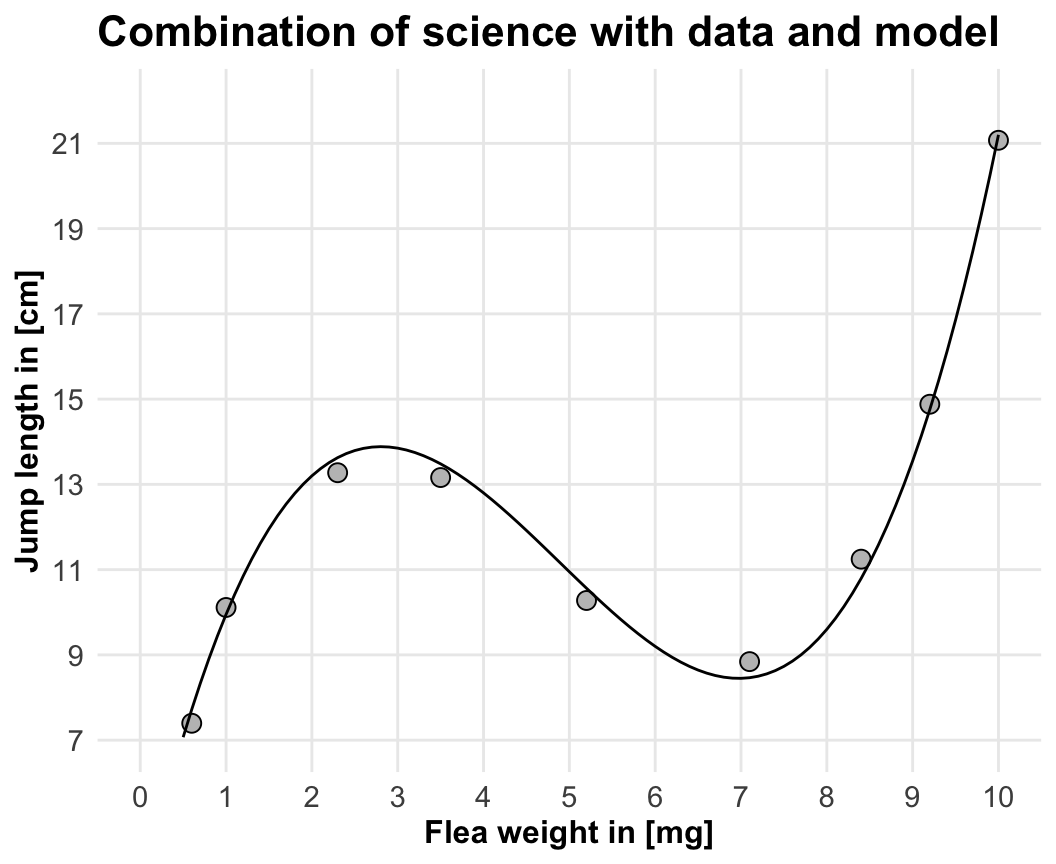
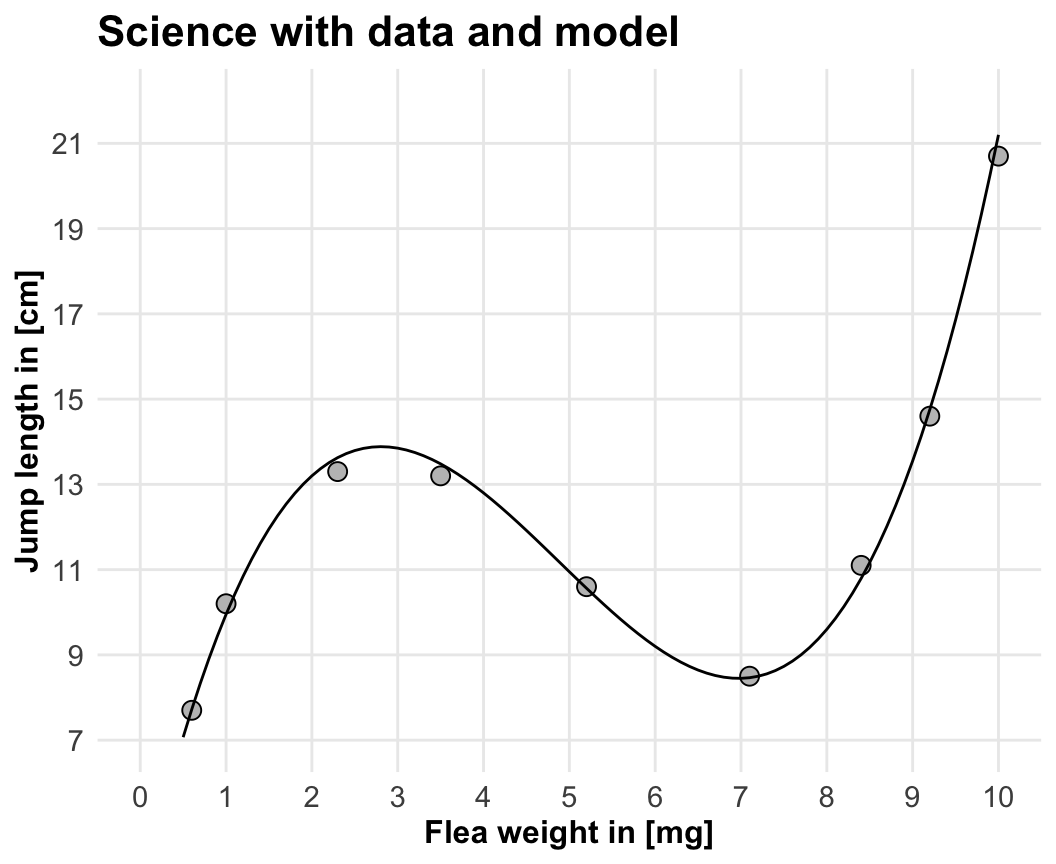
added

diff --git a/docs/chapter-02-what-is-data.html b/docs/chapter-02-what-is-data.html
@@ -301,7 +301,7 @@ window.Quarto = {
 </header>
 
 
-<p><em>Last modified on 27. October 2025 at 19:49:11</em></p>
+<p><em>Last modified on 27. October 2025 at 20:05:22</em></p>
 <blockquote class="blockquote">
 <p><em>“The limits of my language mean the limits of my world.” — Ludwig Wittgenstein</em></p>
 </blockquote>
@@ -397,7 +397,8 @@ Table&nbsp;2.1: Summary table of terminology used in my statistical modelling. T
 <summary>R Code [show / hide]</summary>
 <div class="code-copy-outer-scaffold"><div class="sourceCode cell-code" id="cb1"><pre class="sourceCode r code-with-copy"><code class="sourceCode r"><span id="cb1-1"><a href="#cb1-1" aria-hidden="true" tabindex="-1"></a>jump_weight_tbl <span class="ot">&lt;-</span> <span class="fu">tibble</span>(<span class="at">x =</span> <span class="fu">c</span>(<span class="fl">0.6</span>, <span class="dv">1</span>, <span class="fl">2.3</span>, <span class="fl">3.5</span>, <span class="fl">5.2</span>, <span class="fl">7.1</span>, <span class="fl">8.4</span>, <span class="fl">9.2</span>, <span class="dv">10</span>),</span>
 <span id="cb1-2"><a href="#cb1-2" aria-hidden="true" tabindex="-1"></a>                          <span class="at">y =</span> <span class="fl">0.15</span><span class="sc">*</span>x<span class="sc">^</span><span class="dv">3</span> <span class="sc">-</span> <span class="fl">2.2</span><span class="sc">*</span>x<span class="sc">^</span><span class="dv">2</span> <span class="sc">+</span> <span class="fl">8.8</span><span class="sc">*</span>x <span class="sc">+</span> <span class="fl">3.2</span> <span class="sc">+</span> <span class="fu">rnorm</span>(<span class="dv">9</span>, <span class="dv">0</span>, <span class="fl">0.5</span>)) <span class="sc">|&gt;</span></span>
-<span id="cb1-3"><a href="#cb1-3" aria-hidden="true" tabindex="-1"></a>  <span class="fu">rename</span>(<span class="at">weight_mg =</span> x, <span class="at">jump_length_cm =</span> y)</span></code></pre></div><button title="Copy to Clipboard" class="code-copy-button"><i class="bi"></i></button></div>
+<span id="cb1-3"><a href="#cb1-3" aria-hidden="true" tabindex="-1"></a>  <span class="fu">mutate_all</span>(round, <span class="dv">1</span>) <span class="sc">|&gt;</span> </span>
+<span id="cb1-4"><a href="#cb1-4" aria-hidden="true" tabindex="-1"></a>  <span class="fu">rename</span>(<span class="at">weight_mg =</span> x, <span class="at">jump_length_cm =</span> y)</span></code></pre></div><button title="Copy to Clipboard" class="code-copy-button"><i class="bi"></i></button></div>
 </details>
 </div>
 <div class="cell">
@@ -418,39 +419,39 @@ Table&nbsp;2.2: foo.
 <tbody>
 <tr class="odd">
 <td style="text-align: center;">0.6</td>
-<td style="text-align: center;">7.396246</td>
+<td style="text-align: center;">7.7</td>
 </tr>
 <tr class="even">
 <td style="text-align: center;">1.0</td>
-<td style="text-align: center;">10.112345</td>
+<td style="text-align: center;">10.2</td>
 </tr>
 <tr class="odd">
 <td style="text-align: center;">2.3</td>
-<td style="text-align: center;">13.273475</td>
+<td style="text-align: center;">13.3</td>
 </tr>
 <tr class="even">
 <td style="text-align: center;">3.5</td>
-<td style="text-align: center;">13.160227</td>
+<td style="text-align: center;">13.2</td>
 </tr>
 <tr class="odd">
 <td style="text-align: center;">5.2</td>
-<td style="text-align: center;">10.276160</td>
+<td style="text-align: center;">10.6</td>
 </tr>
 <tr class="even">
 <td style="text-align: center;">7.1</td>
-<td style="text-align: center;">8.842102</td>
+<td style="text-align: center;">8.5</td>
 </tr>
 <tr class="odd">
 <td style="text-align: center;">8.4</td>
-<td style="text-align: center;">11.245328</td>
+<td style="text-align: center;">11.1</td>
 </tr>
 <tr class="even">
 <td style="text-align: center;">9.2</td>
-<td style="text-align: center;">14.879852</td>
+<td style="text-align: center;">14.6</td>
 </tr>
 <tr class="odd">
 <td style="text-align: center;">10.0</td>
-<td style="text-align: center;">21.071588</td>
+<td style="text-align: center;">20.7</td>
 </tr>
 </tbody>
 </table>
@@ -461,7 +462,7 @@ Table&nbsp;2.2: foo.
 </div>
 <p><a href="#eq-jump-weight" class="quarto-xref">Equation&nbsp;<span>2.1</span></a></p>
 <p><span id="eq-jump-weight"><span class="math display">\[
-f(x) = 0.15\cdot x^3 - 2.2\cdot x^2 + 8.8 \cdot x + 3.2
+y = 0.15\cdot x^3 - 2.2\cdot x^2 + 8.8 \cdot x + 3.2
 \tag{2.1}\]</span></span></p>
 <div class="cell" data-layout-align="center">
 <div class="cell-output-display">
@@ -1071,109 +1072,110 @@ Figure&nbsp;2.2: foo. <em>[Zum Vergrößern anklicken]</em>
 <span id="cb2-46"><a href="#cb2-46" aria-hidden="true" tabindex="-1"></a><span class="in">```{r}</span></span>
 <span id="cb2-47"><a href="#cb2-47" aria-hidden="true" tabindex="-1"></a>jump_weight_tbl <span class="ot">&lt;-</span> <span class="fu">tibble</span>(<span class="at">x =</span> <span class="fu">c</span>(<span class="fl">0.6</span>, <span class="dv">1</span>, <span class="fl">2.3</span>, <span class="fl">3.5</span>, <span class="fl">5.2</span>, <span class="fl">7.1</span>, <span class="fl">8.4</span>, <span class="fl">9.2</span>, <span class="dv">10</span>),</span>
 <span id="cb2-48"><a href="#cb2-48" aria-hidden="true" tabindex="-1"></a>                          <span class="at">y =</span> <span class="fl">0.15</span><span class="sc">*</span>x<span class="sc">^</span><span class="dv">3</span> <span class="sc">-</span> <span class="fl">2.2</span><span class="sc">*</span>x<span class="sc">^</span><span class="dv">2</span> <span class="sc">+</span> <span class="fl">8.8</span><span class="sc">*</span>x <span class="sc">+</span> <span class="fl">3.2</span> <span class="sc">+</span> <span class="fu">rnorm</span>(<span class="dv">9</span>, <span class="dv">0</span>, <span class="fl">0.5</span>)) <span class="sc">|&gt;</span></span>
-<span id="cb2-49"><a href="#cb2-49" aria-hidden="true" tabindex="-1"></a>  <span class="fu">rename</span>(<span class="at">weight_mg =</span> x, <span class="at">jump_length_cm =</span> y)</span>
-<span id="cb2-50"><a href="#cb2-50" aria-hidden="true" tabindex="-1"></a><span class="in">```</span></span>
-<span id="cb2-51"><a href="#cb2-51" aria-hidden="true" tabindex="-1"></a></span>
-<span id="cb2-54"><a href="#cb2-54" aria-hidden="true" tabindex="-1"></a><span class="in">```{r}</span></span>
-<span id="cb2-55"><a href="#cb2-55" aria-hidden="true" tabindex="-1"></a><span class="co">#| echo: false</span></span>
-<span id="cb2-56"><a href="#cb2-56" aria-hidden="true" tabindex="-1"></a><span class="co">#| message: false</span></span>
-<span id="cb2-57"><a href="#cb2-57" aria-hidden="true" tabindex="-1"></a><span class="co">#| warning: false</span></span>
-<span id="cb2-58"><a href="#cb2-58" aria-hidden="true" tabindex="-1"></a><span class="co">#| label: tbl-02-jump-weight</span></span>
-<span id="cb2-59"><a href="#cb2-59" aria-hidden="true" tabindex="-1"></a><span class="co">#| tbl-cap: "foo."</span></span>
-<span id="cb2-60"><a href="#cb2-60" aria-hidden="true" tabindex="-1"></a></span>
-<span id="cb2-61"><a href="#cb2-61" aria-hidden="true" tabindex="-1"></a>jump_weight_tbl<span class="sc">|&gt;</span> </span>
-<span id="cb2-62"><a href="#cb2-62" aria-hidden="true" tabindex="-1"></a>  <span class="fu">kable</span>(<span class="at">align =</span> <span class="st">"c"</span>, <span class="st">"pipe"</span>)</span>
-<span id="cb2-63"><a href="#cb2-63" aria-hidden="true" tabindex="-1"></a><span class="in">```</span></span>
-<span id="cb2-64"><a href="#cb2-64" aria-hidden="true" tabindex="-1"></a></span>
+<span id="cb2-49"><a href="#cb2-49" aria-hidden="true" tabindex="-1"></a>  <span class="fu">mutate_all</span>(round, <span class="dv">1</span>) <span class="sc">|&gt;</span> </span>
+<span id="cb2-50"><a href="#cb2-50" aria-hidden="true" tabindex="-1"></a>  <span class="fu">rename</span>(<span class="at">weight_mg =</span> x, <span class="at">jump_length_cm =</span> y)</span>
+<span id="cb2-51"><a href="#cb2-51" aria-hidden="true" tabindex="-1"></a><span class="in">```</span></span>
+<span id="cb2-52"><a href="#cb2-52" aria-hidden="true" tabindex="-1"></a></span>
+<span id="cb2-55"><a href="#cb2-55" aria-hidden="true" tabindex="-1"></a><span class="in">```{r}</span></span>
+<span id="cb2-56"><a href="#cb2-56" aria-hidden="true" tabindex="-1"></a><span class="co">#| echo: false</span></span>
+<span id="cb2-57"><a href="#cb2-57" aria-hidden="true" tabindex="-1"></a><span class="co">#| message: false</span></span>
+<span id="cb2-58"><a href="#cb2-58" aria-hidden="true" tabindex="-1"></a><span class="co">#| warning: false</span></span>
+<span id="cb2-59"><a href="#cb2-59" aria-hidden="true" tabindex="-1"></a><span class="co">#| label: tbl-02-jump-weight</span></span>
+<span id="cb2-60"><a href="#cb2-60" aria-hidden="true" tabindex="-1"></a><span class="co">#| tbl-cap: "foo."</span></span>
+<span id="cb2-61"><a href="#cb2-61" aria-hidden="true" tabindex="-1"></a></span>
+<span id="cb2-62"><a href="#cb2-62" aria-hidden="true" tabindex="-1"></a>jump_weight_tbl<span class="sc">|&gt;</span> </span>
+<span id="cb2-63"><a href="#cb2-63" aria-hidden="true" tabindex="-1"></a>  <span class="fu">kable</span>(<span class="at">align =</span> <span class="st">"c"</span>, <span class="st">"pipe"</span>)</span>
+<span id="cb2-64"><a href="#cb2-64" aria-hidden="true" tabindex="-1"></a><span class="in">```</span></span>
 <span id="cb2-65"><a href="#cb2-65" aria-hidden="true" tabindex="-1"></a></span>
 <span id="cb2-66"><a href="#cb2-66" aria-hidden="true" tabindex="-1"></a></span>
-<span id="cb2-67"><a href="#cb2-67" aria-hidden="true" tabindex="-1"></a>@eq-jump-weight</span>
-<span id="cb2-68"><a href="#cb2-68" aria-hidden="true" tabindex="-1"></a></span>
-<span id="cb2-69"><a href="#cb2-69" aria-hidden="true" tabindex="-1"></a>$$</span>
-<span id="cb2-70"><a href="#cb2-70" aria-hidden="true" tabindex="-1"></a>f(x) = 0.15\cdot x^3 - 2.2\cdot x^2 + 8.8 \cdot x + 3.2</span>
-<span id="cb2-71"><a href="#cb2-71" aria-hidden="true" tabindex="-1"></a>$$ {#eq-jump-weight}</span>
-<span id="cb2-72"><a href="#cb2-72" aria-hidden="true" tabindex="-1"></a></span>
-<span id="cb2-75"><a href="#cb2-75" aria-hidden="true" tabindex="-1"></a><span class="in">```{r}</span></span>
-<span id="cb2-76"><a href="#cb2-76" aria-hidden="true" tabindex="-1"></a><span class="co">#| message: false</span></span>
-<span id="cb2-77"><a href="#cb2-77" aria-hidden="true" tabindex="-1"></a><span class="co">#| echo: false</span></span>
-<span id="cb2-78"><a href="#cb2-78" aria-hidden="true" tabindex="-1"></a><span class="co">#| warning: false</span></span>
-<span id="cb2-79"><a href="#cb2-79" aria-hidden="true" tabindex="-1"></a><span class="co">#| fig-align: center</span></span>
-<span id="cb2-80"><a href="#cb2-80" aria-hidden="true" tabindex="-1"></a><span class="co">#| fig-height: 4</span></span>
-<span id="cb2-81"><a href="#cb2-81" aria-hidden="true" tabindex="-1"></a><span class="co">#| fig-width: 10</span></span>
-<span id="cb2-82"><a href="#cb2-82" aria-hidden="true" tabindex="-1"></a><span class="co">#| fig-cap: "foo. *[Zum Vergrößern anklicken]*"</span></span>
-<span id="cb2-83"><a href="#cb2-83" aria-hidden="true" tabindex="-1"></a><span class="co">#| label: fig-02-science-to-model</span></span>
-<span id="cb2-84"><a href="#cb2-84" aria-hidden="true" tabindex="-1"></a></span>
-<span id="cb2-85"><a href="#cb2-85" aria-hidden="true" tabindex="-1"></a>p1 <span class="ot">&lt;-</span> <span class="fu">ggplot</span>(jump_weight_tbl, <span class="fu">aes</span>(<span class="at">x =</span> weight_mg, <span class="at">y =</span> jump_length_cm)) <span class="sc">+</span></span>
-<span id="cb2-86"><a href="#cb2-86" aria-hidden="true" tabindex="-1"></a>  <span class="fu">theme_book</span>() <span class="sc">+</span></span>
-<span id="cb2-87"><a href="#cb2-87" aria-hidden="true" tabindex="-1"></a>  <span class="fu">scale_x_continuous</span>(<span class="at">breaks =</span> <span class="dv">0</span><span class="sc">:</span><span class="dv">10</span>, <span class="at">limits =</span> <span class="fu">c</span>(<span class="dv">0</span>, <span class="dv">10</span>)) <span class="sc">+</span></span>
-<span id="cb2-88"><a href="#cb2-88" aria-hidden="true" tabindex="-1"></a>  <span class="fu">scale_y_continuous</span>(<span class="at">breaks =</span> <span class="fu">seq</span>(<span class="dv">7</span>, <span class="dv">21</span>, <span class="dv">2</span>), <span class="at">limits =</span> <span class="fu">c</span>(<span class="dv">7</span>, <span class="dv">22</span>)) <span class="sc">+</span></span>
-<span id="cb2-89"><a href="#cb2-89" aria-hidden="true" tabindex="-1"></a>  <span class="fu">labs</span>(<span class="at">x =</span> <span class="st">"Flea weight in [mg]"</span>, <span class="at">y =</span> <span class="st">"Jump length in [cm]"</span>,</span>
-<span id="cb2-90"><a href="#cb2-90" aria-hidden="true" tabindex="-1"></a>       <span class="at">title =</span> <span class="st">"Science"</span>) <span class="sc">+</span></span>
-<span id="cb2-91"><a href="#cb2-91" aria-hidden="true" tabindex="-1"></a>  <span class="fu">theme</span>(<span class="at">axis.text =</span> <span class="fu">element_blank</span>())</span>
-<span id="cb2-92"><a href="#cb2-92" aria-hidden="true" tabindex="-1"></a></span>
-<span id="cb2-93"><a href="#cb2-93" aria-hidden="true" tabindex="-1"></a>p2 <span class="ot">&lt;-</span> <span class="fu">ggplot</span>(jump_weight_tbl, <span class="fu">aes</span>(<span class="at">x =</span> weight_mg, <span class="at">y =</span> jump_length_cm)) <span class="sc">+</span></span>
-<span id="cb2-94"><a href="#cb2-94" aria-hidden="true" tabindex="-1"></a>  <span class="fu">theme_book</span>() <span class="sc">+</span></span>
-<span id="cb2-95"><a href="#cb2-95" aria-hidden="true" tabindex="-1"></a>  <span class="fu">geom_point</span>() <span class="sc">+</span></span>
-<span id="cb2-96"><a href="#cb2-96" aria-hidden="true" tabindex="-1"></a>  <span class="fu">scale_x_continuous</span>(<span class="at">breaks =</span> <span class="dv">0</span><span class="sc">:</span><span class="dv">10</span>, <span class="at">limits =</span> <span class="fu">c</span>(<span class="dv">0</span>, <span class="dv">10</span>)) <span class="sc">+</span></span>
-<span id="cb2-97"><a href="#cb2-97" aria-hidden="true" tabindex="-1"></a>  <span class="fu">scale_y_continuous</span>(<span class="at">breaks =</span> <span class="fu">seq</span>(<span class="dv">7</span>, <span class="dv">21</span>, <span class="dv">2</span>), <span class="at">limits =</span> <span class="fu">c</span>(<span class="dv">7</span>, <span class="dv">22</span>)) <span class="sc">+</span></span>
-<span id="cb2-98"><a href="#cb2-98" aria-hidden="true" tabindex="-1"></a>  <span class="fu">labs</span>(<span class="at">x =</span> <span class="st">"weight_mg"</span>, <span class="at">y =</span> <span class="st">"jump_length_cm"</span>,</span>
-<span id="cb2-99"><a href="#cb2-99" aria-hidden="true" tabindex="-1"></a>       <span class="at">title =</span> <span class="st">"Data"</span>)</span>
-<span id="cb2-100"><a href="#cb2-100" aria-hidden="true" tabindex="-1"></a></span>
-<span id="cb2-101"><a href="#cb2-101" aria-hidden="true" tabindex="-1"></a>p3 <span class="ot">&lt;-</span> <span class="fu">ggplot</span>(jump_weight_tbl, <span class="fu">aes</span>(<span class="at">x =</span> weight_mg, <span class="at">y =</span> jump_length_cm)) <span class="sc">+</span></span>
-<span id="cb2-102"><a href="#cb2-102" aria-hidden="true" tabindex="-1"></a>  <span class="fu">theme_book</span>() <span class="sc">+</span></span>
-<span id="cb2-103"><a href="#cb2-103" aria-hidden="true" tabindex="-1"></a>  <span class="fu">geom_function</span>(<span class="at">fun =</span> \(x) <span class="fl">0.15</span><span class="sc">*</span>x<span class="sc">^</span><span class="dv">3</span> <span class="sc">-</span> <span class="fl">2.2</span><span class="sc">*</span>x<span class="sc">^</span><span class="dv">2</span> <span class="sc">+</span> <span class="fl">8.8</span><span class="sc">*</span>x <span class="sc">+</span> <span class="fl">3.2</span>,</span>
-<span id="cb2-104"><a href="#cb2-104" aria-hidden="true" tabindex="-1"></a>                <span class="at">size =</span> <span class="dv">1</span>) <span class="sc">+</span></span>
-<span id="cb2-105"><a href="#cb2-105" aria-hidden="true" tabindex="-1"></a>  <span class="fu">scale_x_continuous</span>(<span class="at">breaks =</span> <span class="dv">0</span><span class="sc">:</span><span class="dv">10</span>, <span class="at">limits =</span> <span class="fu">c</span>(<span class="dv">0</span>, <span class="dv">10</span>)) <span class="sc">+</span></span>
-<span id="cb2-106"><a href="#cb2-106" aria-hidden="true" tabindex="-1"></a>  <span class="fu">scale_y_continuous</span>(<span class="at">breaks =</span> <span class="fu">seq</span>(<span class="dv">7</span>, <span class="dv">21</span>, <span class="dv">2</span>), <span class="at">limits =</span> <span class="fu">c</span>(<span class="dv">7</span>, <span class="dv">22</span>)) <span class="sc">+</span></span>
-<span id="cb2-107"><a href="#cb2-107" aria-hidden="true" tabindex="-1"></a>  <span class="fu">labs</span>(<span class="at">x =</span> <span class="st">"Influencer (X)"</span>, <span class="at">y =</span> <span class="st">"Outcome (Y)"</span>,</span>
-<span id="cb2-108"><a href="#cb2-108" aria-hidden="true" tabindex="-1"></a>       <span class="at">title =</span> <span class="st">"Model"</span>) <span class="sc">+</span></span>
-<span id="cb2-109"><a href="#cb2-109" aria-hidden="true" tabindex="-1"></a>  <span class="fu">theme</span>(<span class="at">axis.text =</span> <span class="fu">element_blank</span>())</span>
-<span id="cb2-110"><a href="#cb2-110" aria-hidden="true" tabindex="-1"></a></span>
-<span id="cb2-111"><a href="#cb2-111" aria-hidden="true" tabindex="-1"></a>p1 <span class="sc">+</span> p2 <span class="sc">+</span> p3 <span class="sc">+</span></span>
-<span id="cb2-112"><a href="#cb2-112" aria-hidden="true" tabindex="-1"></a>  <span class="fu">plot_layout</span>(<span class="at">ncol =</span> <span class="dv">3</span>) <span class="sc">+</span></span>
-<span id="cb2-113"><a href="#cb2-113" aria-hidden="true" tabindex="-1"></a>  <span class="fu">plot_annotation</span>(<span class="at">tag_levels =</span> <span class="st">'A'</span>, <span class="at">tag_prefix =</span> <span class="st">'('</span>, <span class="at">tag_suffix =</span> <span class="st">')'</span>) <span class="sc">&amp;</span></span>
-<span id="cb2-114"><a href="#cb2-114" aria-hidden="true" tabindex="-1"></a>  <span class="fu">theme</span>(<span class="at">plot.tag =</span> <span class="fu">element_text</span>(<span class="at">size =</span> <span class="dv">16</span>, <span class="at">face =</span> <span class="st">"bold"</span>))</span>
-<span id="cb2-115"><a href="#cb2-115" aria-hidden="true" tabindex="-1"></a><span class="in">```</span></span>
-<span id="cb2-116"><a href="#cb2-116" aria-hidden="true" tabindex="-1"></a></span>
-<span id="cb2-119"><a href="#cb2-119" aria-hidden="true" tabindex="-1"></a><span class="in">```{r}</span></span>
-<span id="cb2-120"><a href="#cb2-120" aria-hidden="true" tabindex="-1"></a><span class="co">#| message: false</span></span>
-<span id="cb2-121"><a href="#cb2-121" aria-hidden="true" tabindex="-1"></a><span class="co">#| echo: false</span></span>
-<span id="cb2-122"><a href="#cb2-122" aria-hidden="true" tabindex="-1"></a><span class="co">#| warning: false</span></span>
-<span id="cb2-123"><a href="#cb2-123" aria-hidden="true" tabindex="-1"></a><span class="co">#| fig-align: center</span></span>
-<span id="cb2-124"><a href="#cb2-124" aria-hidden="true" tabindex="-1"></a><span class="co">#| fig-height: 4.5</span></span>
-<span id="cb2-125"><a href="#cb2-125" aria-hidden="true" tabindex="-1"></a><span class="co">#| fig-width: 5.5</span></span>
-<span id="cb2-126"><a href="#cb2-126" aria-hidden="true" tabindex="-1"></a><span class="co">#| fig-cap: "foo. *[Zum Vergrößern anklicken]*"</span></span>
-<span id="cb2-127"><a href="#cb2-127" aria-hidden="true" tabindex="-1"></a><span class="co">#| label: fig-02-science-with-model</span></span>
-<span id="cb2-128"><a href="#cb2-128" aria-hidden="true" tabindex="-1"></a></span>
-<span id="cb2-129"><a href="#cb2-129" aria-hidden="true" tabindex="-1"></a><span class="fu">ggplot</span>(jump_weight_tbl, <span class="fu">aes</span>(<span class="at">x =</span> weight_mg, <span class="at">y =</span> jump_length_cm)) <span class="sc">+</span></span>
-<span id="cb2-130"><a href="#cb2-130" aria-hidden="true" tabindex="-1"></a>  <span class="fu">theme_book</span>() <span class="sc">+</span></span>
-<span id="cb2-131"><a href="#cb2-131" aria-hidden="true" tabindex="-1"></a>  <span class="fu">geom_point</span>(<span class="at">size =</span> <span class="dv">3</span>, <span class="at">shape =</span> <span class="dv">21</span>, <span class="at">fill =</span> <span class="st">"gray75"</span>) <span class="sc">+</span></span>
-<span id="cb2-132"><a href="#cb2-132" aria-hidden="true" tabindex="-1"></a>  <span class="fu">geom_function</span>(<span class="at">fun =</span> \(x) <span class="fl">0.15</span><span class="sc">*</span>x<span class="sc">^</span><span class="dv">3</span> <span class="sc">-</span> <span class="fl">2.2</span><span class="sc">*</span>x<span class="sc">^</span><span class="dv">2</span> <span class="sc">+</span> <span class="fl">8.8</span><span class="sc">*</span>x <span class="sc">+</span> <span class="fl">3.2</span>) <span class="sc">+</span></span>
-<span id="cb2-133"><a href="#cb2-133" aria-hidden="true" tabindex="-1"></a>  <span class="fu">scale_x_continuous</span>(<span class="at">breaks =</span> <span class="dv">0</span><span class="sc">:</span><span class="dv">10</span>, <span class="at">limits =</span> <span class="fu">c</span>(<span class="dv">0</span>, <span class="dv">10</span>)) <span class="sc">+</span></span>
-<span id="cb2-134"><a href="#cb2-134" aria-hidden="true" tabindex="-1"></a>  <span class="fu">scale_y_continuous</span>(<span class="at">breaks =</span> <span class="fu">seq</span>(<span class="dv">7</span>, <span class="dv">21</span>, <span class="dv">2</span>), <span class="at">limits =</span> <span class="fu">c</span>(<span class="dv">7</span>, <span class="dv">22</span>)) <span class="sc">+</span></span>
-<span id="cb2-135"><a href="#cb2-135" aria-hidden="true" tabindex="-1"></a>  <span class="fu">labs</span>(<span class="at">x =</span> <span class="st">"Flea weight in [mg]"</span>, <span class="at">y =</span> <span class="st">"Jump length in [cm]"</span>,</span>
-<span id="cb2-136"><a href="#cb2-136" aria-hidden="true" tabindex="-1"></a>       <span class="at">title =</span> <span class="st">"Combination of science with data and model"</span>) </span>
-<span id="cb2-137"><a href="#cb2-137" aria-hidden="true" tabindex="-1"></a><span class="in">```</span></span>
-<span id="cb2-138"><a href="#cb2-138" aria-hidden="true" tabindex="-1"></a></span>
+<span id="cb2-67"><a href="#cb2-67" aria-hidden="true" tabindex="-1"></a></span>
+<span id="cb2-68"><a href="#cb2-68" aria-hidden="true" tabindex="-1"></a>@eq-jump-weight</span>
+<span id="cb2-69"><a href="#cb2-69" aria-hidden="true" tabindex="-1"></a></span>
+<span id="cb2-70"><a href="#cb2-70" aria-hidden="true" tabindex="-1"></a>$$</span>
+<span id="cb2-71"><a href="#cb2-71" aria-hidden="true" tabindex="-1"></a>y = 0.15\cdot x^3 - 2.2\cdot x^2 + 8.8 \cdot x + 3.2</span>
+<span id="cb2-72"><a href="#cb2-72" aria-hidden="true" tabindex="-1"></a>$$ {#eq-jump-weight}</span>
+<span id="cb2-73"><a href="#cb2-73" aria-hidden="true" tabindex="-1"></a></span>
+<span id="cb2-76"><a href="#cb2-76" aria-hidden="true" tabindex="-1"></a><span class="in">```{r}</span></span>
+<span id="cb2-77"><a href="#cb2-77" aria-hidden="true" tabindex="-1"></a><span class="co">#| message: false</span></span>
+<span id="cb2-78"><a href="#cb2-78" aria-hidden="true" tabindex="-1"></a><span class="co">#| echo: false</span></span>
+<span id="cb2-79"><a href="#cb2-79" aria-hidden="true" tabindex="-1"></a><span class="co">#| warning: false</span></span>
+<span id="cb2-80"><a href="#cb2-80" aria-hidden="true" tabindex="-1"></a><span class="co">#| fig-align: center</span></span>
+<span id="cb2-81"><a href="#cb2-81" aria-hidden="true" tabindex="-1"></a><span class="co">#| fig-height: 4</span></span>
+<span id="cb2-82"><a href="#cb2-82" aria-hidden="true" tabindex="-1"></a><span class="co">#| fig-width: 10</span></span>
+<span id="cb2-83"><a href="#cb2-83" aria-hidden="true" tabindex="-1"></a><span class="co">#| fig-cap: "foo. *[Zum Vergrößern anklicken]*"</span></span>
+<span id="cb2-84"><a href="#cb2-84" aria-hidden="true" tabindex="-1"></a><span class="co">#| label: fig-02-science-to-model</span></span>
+<span id="cb2-85"><a href="#cb2-85" aria-hidden="true" tabindex="-1"></a></span>
+<span id="cb2-86"><a href="#cb2-86" aria-hidden="true" tabindex="-1"></a>p1 <span class="ot">&lt;-</span> <span class="fu">ggplot</span>(jump_weight_tbl, <span class="fu">aes</span>(<span class="at">x =</span> weight_mg, <span class="at">y =</span> jump_length_cm)) <span class="sc">+</span></span>
+<span id="cb2-87"><a href="#cb2-87" aria-hidden="true" tabindex="-1"></a>  <span class="fu">theme_book</span>() <span class="sc">+</span></span>
+<span id="cb2-88"><a href="#cb2-88" aria-hidden="true" tabindex="-1"></a>  <span class="fu">scale_x_continuous</span>(<span class="at">breaks =</span> <span class="dv">0</span><span class="sc">:</span><span class="dv">10</span>, <span class="at">limits =</span> <span class="fu">c</span>(<span class="dv">0</span>, <span class="dv">10</span>)) <span class="sc">+</span></span>
+<span id="cb2-89"><a href="#cb2-89" aria-hidden="true" tabindex="-1"></a>  <span class="fu">scale_y_continuous</span>(<span class="at">breaks =</span> <span class="fu">seq</span>(<span class="dv">7</span>, <span class="dv">21</span>, <span class="dv">2</span>), <span class="at">limits =</span> <span class="fu">c</span>(<span class="dv">7</span>, <span class="dv">22</span>)) <span class="sc">+</span></span>
+<span id="cb2-90"><a href="#cb2-90" aria-hidden="true" tabindex="-1"></a>  <span class="fu">labs</span>(<span class="at">x =</span> <span class="st">"Flea weight in [mg]"</span>, <span class="at">y =</span> <span class="st">"Jump length in [cm]"</span>,</span>
+<span id="cb2-91"><a href="#cb2-91" aria-hidden="true" tabindex="-1"></a>       <span class="at">title =</span> <span class="st">"Science"</span>) <span class="sc">+</span></span>
+<span id="cb2-92"><a href="#cb2-92" aria-hidden="true" tabindex="-1"></a>  <span class="fu">theme</span>(<span class="at">axis.text =</span> <span class="fu">element_blank</span>())</span>
+<span id="cb2-93"><a href="#cb2-93" aria-hidden="true" tabindex="-1"></a></span>
+<span id="cb2-94"><a href="#cb2-94" aria-hidden="true" tabindex="-1"></a>p2 <span class="ot">&lt;-</span> <span class="fu">ggplot</span>(jump_weight_tbl, <span class="fu">aes</span>(<span class="at">x =</span> weight_mg, <span class="at">y =</span> jump_length_cm)) <span class="sc">+</span></span>
+<span id="cb2-95"><a href="#cb2-95" aria-hidden="true" tabindex="-1"></a>  <span class="fu">theme_book</span>() <span class="sc">+</span></span>
+<span id="cb2-96"><a href="#cb2-96" aria-hidden="true" tabindex="-1"></a>  <span class="fu">geom_point</span>() <span class="sc">+</span></span>
+<span id="cb2-97"><a href="#cb2-97" aria-hidden="true" tabindex="-1"></a>  <span class="fu">scale_x_continuous</span>(<span class="at">breaks =</span> <span class="dv">0</span><span class="sc">:</span><span class="dv">10</span>, <span class="at">limits =</span> <span class="fu">c</span>(<span class="dv">0</span>, <span class="dv">10</span>)) <span class="sc">+</span></span>
+<span id="cb2-98"><a href="#cb2-98" aria-hidden="true" tabindex="-1"></a>  <span class="fu">scale_y_continuous</span>(<span class="at">breaks =</span> <span class="fu">seq</span>(<span class="dv">7</span>, <span class="dv">21</span>, <span class="dv">2</span>), <span class="at">limits =</span> <span class="fu">c</span>(<span class="dv">7</span>, <span class="dv">22</span>)) <span class="sc">+</span></span>
+<span id="cb2-99"><a href="#cb2-99" aria-hidden="true" tabindex="-1"></a>  <span class="fu">labs</span>(<span class="at">x =</span> <span class="st">"weight_mg"</span>, <span class="at">y =</span> <span class="st">"jump_length_cm"</span>,</span>
+<span id="cb2-100"><a href="#cb2-100" aria-hidden="true" tabindex="-1"></a>       <span class="at">title =</span> <span class="st">"Data"</span>)</span>
+<span id="cb2-101"><a href="#cb2-101" aria-hidden="true" tabindex="-1"></a></span>
+<span id="cb2-102"><a href="#cb2-102" aria-hidden="true" tabindex="-1"></a>p3 <span class="ot">&lt;-</span> <span class="fu">ggplot</span>(jump_weight_tbl, <span class="fu">aes</span>(<span class="at">x =</span> weight_mg, <span class="at">y =</span> jump_length_cm)) <span class="sc">+</span></span>
+<span id="cb2-103"><a href="#cb2-103" aria-hidden="true" tabindex="-1"></a>  <span class="fu">theme_book</span>() <span class="sc">+</span></span>
+<span id="cb2-104"><a href="#cb2-104" aria-hidden="true" tabindex="-1"></a>  <span class="fu">geom_function</span>(<span class="at">fun =</span> \(x) <span class="fl">0.15</span><span class="sc">*</span>x<span class="sc">^</span><span class="dv">3</span> <span class="sc">-</span> <span class="fl">2.2</span><span class="sc">*</span>x<span class="sc">^</span><span class="dv">2</span> <span class="sc">+</span> <span class="fl">8.8</span><span class="sc">*</span>x <span class="sc">+</span> <span class="fl">3.2</span>,</span>
+<span id="cb2-105"><a href="#cb2-105" aria-hidden="true" tabindex="-1"></a>                <span class="at">size =</span> <span class="dv">1</span>) <span class="sc">+</span></span>
+<span id="cb2-106"><a href="#cb2-106" aria-hidden="true" tabindex="-1"></a>  <span class="fu">scale_x_continuous</span>(<span class="at">breaks =</span> <span class="dv">0</span><span class="sc">:</span><span class="dv">10</span>, <span class="at">limits =</span> <span class="fu">c</span>(<span class="dv">0</span>, <span class="dv">10</span>)) <span class="sc">+</span></span>
+<span id="cb2-107"><a href="#cb2-107" aria-hidden="true" tabindex="-1"></a>  <span class="fu">scale_y_continuous</span>(<span class="at">breaks =</span> <span class="fu">seq</span>(<span class="dv">7</span>, <span class="dv">21</span>, <span class="dv">2</span>), <span class="at">limits =</span> <span class="fu">c</span>(<span class="dv">7</span>, <span class="dv">22</span>)) <span class="sc">+</span></span>
+<span id="cb2-108"><a href="#cb2-108" aria-hidden="true" tabindex="-1"></a>  <span class="fu">labs</span>(<span class="at">x =</span> <span class="st">"Influencer (X)"</span>, <span class="at">y =</span> <span class="st">"Outcome (Y)"</span>,</span>
+<span id="cb2-109"><a href="#cb2-109" aria-hidden="true" tabindex="-1"></a>       <span class="at">title =</span> <span class="st">"Model"</span>) <span class="sc">+</span></span>
+<span id="cb2-110"><a href="#cb2-110" aria-hidden="true" tabindex="-1"></a>  <span class="fu">theme</span>(<span class="at">axis.text =</span> <span class="fu">element_blank</span>())</span>
+<span id="cb2-111"><a href="#cb2-111" aria-hidden="true" tabindex="-1"></a></span>
+<span id="cb2-112"><a href="#cb2-112" aria-hidden="true" tabindex="-1"></a>p1 <span class="sc">+</span> p2 <span class="sc">+</span> p3 <span class="sc">+</span></span>
+<span id="cb2-113"><a href="#cb2-113" aria-hidden="true" tabindex="-1"></a>  <span class="fu">plot_layout</span>(<span class="at">ncol =</span> <span class="dv">3</span>) <span class="sc">+</span></span>
+<span id="cb2-114"><a href="#cb2-114" aria-hidden="true" tabindex="-1"></a>  <span class="fu">plot_annotation</span>(<span class="at">tag_levels =</span> <span class="st">'A'</span>, <span class="at">tag_prefix =</span> <span class="st">'('</span>, <span class="at">tag_suffix =</span> <span class="st">')'</span>) <span class="sc">&amp;</span></span>
+<span id="cb2-115"><a href="#cb2-115" aria-hidden="true" tabindex="-1"></a>  <span class="fu">theme</span>(<span class="at">plot.tag =</span> <span class="fu">element_text</span>(<span class="at">size =</span> <span class="dv">16</span>, <span class="at">face =</span> <span class="st">"bold"</span>))</span>
+<span id="cb2-116"><a href="#cb2-116" aria-hidden="true" tabindex="-1"></a><span class="in">```</span></span>
+<span id="cb2-117"><a href="#cb2-117" aria-hidden="true" tabindex="-1"></a></span>
+<span id="cb2-120"><a href="#cb2-120" aria-hidden="true" tabindex="-1"></a><span class="in">```{r}</span></span>
+<span id="cb2-121"><a href="#cb2-121" aria-hidden="true" tabindex="-1"></a><span class="co">#| message: false</span></span>
+<span id="cb2-122"><a href="#cb2-122" aria-hidden="true" tabindex="-1"></a><span class="co">#| echo: false</span></span>
+<span id="cb2-123"><a href="#cb2-123" aria-hidden="true" tabindex="-1"></a><span class="co">#| warning: false</span></span>
+<span id="cb2-124"><a href="#cb2-124" aria-hidden="true" tabindex="-1"></a><span class="co">#| fig-align: center</span></span>
+<span id="cb2-125"><a href="#cb2-125" aria-hidden="true" tabindex="-1"></a><span class="co">#| fig-height: 4.5</span></span>
+<span id="cb2-126"><a href="#cb2-126" aria-hidden="true" tabindex="-1"></a><span class="co">#| fig-width: 5.5</span></span>
+<span id="cb2-127"><a href="#cb2-127" aria-hidden="true" tabindex="-1"></a><span class="co">#| fig-cap: "foo. *[Zum Vergrößern anklicken]*"</span></span>
+<span id="cb2-128"><a href="#cb2-128" aria-hidden="true" tabindex="-1"></a><span class="co">#| label: fig-02-science-with-model</span></span>
+<span id="cb2-129"><a href="#cb2-129" aria-hidden="true" tabindex="-1"></a></span>
+<span id="cb2-130"><a href="#cb2-130" aria-hidden="true" tabindex="-1"></a><span class="fu">ggplot</span>(jump_weight_tbl, <span class="fu">aes</span>(<span class="at">x =</span> weight_mg, <span class="at">y =</span> jump_length_cm)) <span class="sc">+</span></span>
+<span id="cb2-131"><a href="#cb2-131" aria-hidden="true" tabindex="-1"></a>  <span class="fu">theme_book</span>() <span class="sc">+</span></span>
+<span id="cb2-132"><a href="#cb2-132" aria-hidden="true" tabindex="-1"></a>  <span class="fu">geom_point</span>(<span class="at">size =</span> <span class="dv">3</span>, <span class="at">shape =</span> <span class="dv">21</span>, <span class="at">fill =</span> <span class="st">"gray75"</span>) <span class="sc">+</span></span>
+<span id="cb2-133"><a href="#cb2-133" aria-hidden="true" tabindex="-1"></a>  <span class="fu">geom_function</span>(<span class="at">fun =</span> \(x) <span class="fl">0.15</span><span class="sc">*</span>x<span class="sc">^</span><span class="dv">3</span> <span class="sc">-</span> <span class="fl">2.2</span><span class="sc">*</span>x<span class="sc">^</span><span class="dv">2</span> <span class="sc">+</span> <span class="fl">8.8</span><span class="sc">*</span>x <span class="sc">+</span> <span class="fl">3.2</span>) <span class="sc">+</span></span>
+<span id="cb2-134"><a href="#cb2-134" aria-hidden="true" tabindex="-1"></a>  <span class="fu">scale_x_continuous</span>(<span class="at">breaks =</span> <span class="dv">0</span><span class="sc">:</span><span class="dv">10</span>, <span class="at">limits =</span> <span class="fu">c</span>(<span class="dv">0</span>, <span class="dv">10</span>)) <span class="sc">+</span></span>
+<span id="cb2-135"><a href="#cb2-135" aria-hidden="true" tabindex="-1"></a>  <span class="fu">scale_y_continuous</span>(<span class="at">breaks =</span> <span class="fu">seq</span>(<span class="dv">7</span>, <span class="dv">21</span>, <span class="dv">2</span>), <span class="at">limits =</span> <span class="fu">c</span>(<span class="dv">7</span>, <span class="dv">22</span>)) <span class="sc">+</span></span>
+<span id="cb2-136"><a href="#cb2-136" aria-hidden="true" tabindex="-1"></a>  <span class="fu">labs</span>(<span class="at">x =</span> <span class="st">"Flea weight in [mg]"</span>, <span class="at">y =</span> <span class="st">"Jump length in [cm]"</span>,</span>
+<span id="cb2-137"><a href="#cb2-137" aria-hidden="true" tabindex="-1"></a>       <span class="at">title =</span> <span class="st">"Science with data and model"</span>) </span>
+<span id="cb2-138"><a href="#cb2-138" aria-hidden="true" tabindex="-1"></a><span class="in">```</span></span>
 <span id="cb2-139"><a href="#cb2-139" aria-hidden="true" tabindex="-1"></a></span>
 <span id="cb2-140"><a href="#cb2-140" aria-hidden="true" tabindex="-1"></a></span>
-<span id="cb2-141"><a href="#cb2-141" aria-hidden="true" tabindex="-1"></a><span class="fu">## Alternatives</span></span>
-<span id="cb2-142"><a href="#cb2-142" aria-hidden="true" tabindex="-1"></a></span>
-<span id="cb2-143"><a href="#cb2-143" aria-hidden="true" tabindex="-1"></a>Further tutorials and R packages on XXX</span>
-<span id="cb2-144"><a href="#cb2-144" aria-hidden="true" tabindex="-1"></a></span>
-<span id="cb2-145"><a href="#cb2-145" aria-hidden="true" tabindex="-1"></a><span class="fu">## Glossary</span></span>
-<span id="cb2-146"><a href="#cb2-146" aria-hidden="true" tabindex="-1"></a></span>
-<span id="cb2-147"><a href="#cb2-147" aria-hidden="true" tabindex="-1"></a>term</span>
-<span id="cb2-148"><a href="#cb2-148" aria-hidden="true" tabindex="-1"></a></span>
-<span id="cb2-149"><a href="#cb2-149" aria-hidden="true" tabindex="-1"></a>:   what does it mean.</span>
-<span id="cb2-150"><a href="#cb2-150" aria-hidden="true" tabindex="-1"></a></span>
-<span id="cb2-151"><a href="#cb2-151" aria-hidden="true" tabindex="-1"></a><span class="fu">## The meaning of "Data Science" in this chapter.</span></span>
-<span id="cb2-152"><a href="#cb2-152" aria-hidden="true" tabindex="-1"></a></span>
-<span id="cb2-153"><a href="#cb2-153" aria-hidden="true" tabindex="-1"></a><span class="ss">-   </span>itemize with max. 5-6 words</span>
-<span id="cb2-154"><a href="#cb2-154" aria-hidden="true" tabindex="-1"></a></span>
-<span id="cb2-155"><a href="#cb2-155" aria-hidden="true" tabindex="-1"></a><span class="fu">## Summary</span></span>
-<span id="cb2-156"><a href="#cb2-156" aria-hidden="true" tabindex="-1"></a></span>
-<span id="cb2-157"><a href="#cb2-157" aria-hidden="true" tabindex="-1"></a><span class="fu">## References {.unnumbered}</span></span>
+<span id="cb2-141"><a href="#cb2-141" aria-hidden="true" tabindex="-1"></a></span>
+<span id="cb2-142"><a href="#cb2-142" aria-hidden="true" tabindex="-1"></a><span class="fu">## Alternatives</span></span>
+<span id="cb2-143"><a href="#cb2-143" aria-hidden="true" tabindex="-1"></a></span>
+<span id="cb2-144"><a href="#cb2-144" aria-hidden="true" tabindex="-1"></a>Further tutorials and R packages on XXX</span>
+<span id="cb2-145"><a href="#cb2-145" aria-hidden="true" tabindex="-1"></a></span>
+<span id="cb2-146"><a href="#cb2-146" aria-hidden="true" tabindex="-1"></a><span class="fu">## Glossary</span></span>
+<span id="cb2-147"><a href="#cb2-147" aria-hidden="true" tabindex="-1"></a></span>
+<span id="cb2-148"><a href="#cb2-148" aria-hidden="true" tabindex="-1"></a>term</span>
+<span id="cb2-149"><a href="#cb2-149" aria-hidden="true" tabindex="-1"></a></span>
+<span id="cb2-150"><a href="#cb2-150" aria-hidden="true" tabindex="-1"></a>:   what does it mean.</span>
+<span id="cb2-151"><a href="#cb2-151" aria-hidden="true" tabindex="-1"></a></span>
+<span id="cb2-152"><a href="#cb2-152" aria-hidden="true" tabindex="-1"></a><span class="fu">## The meaning of "Data Science" in this chapter.</span></span>
+<span id="cb2-153"><a href="#cb2-153" aria-hidden="true" tabindex="-1"></a></span>
+<span id="cb2-154"><a href="#cb2-154" aria-hidden="true" tabindex="-1"></a><span class="ss">-   </span>itemize with max. 5-6 words</span>
+<span id="cb2-155"><a href="#cb2-155" aria-hidden="true" tabindex="-1"></a></span>
+<span id="cb2-156"><a href="#cb2-156" aria-hidden="true" tabindex="-1"></a><span class="fu">## Summary</span></span>
+<span id="cb2-157"><a href="#cb2-157" aria-hidden="true" tabindex="-1"></a></span>
+<span id="cb2-158"><a href="#cb2-158" aria-hidden="true" tabindex="-1"></a><span class="fu">## References {.unnumbered}</span></span>
 </code></pre></div><button title="Copy to Clipboard" class="code-copy-button" data-in-quarto-modal=""><i class="bi"></i></button></div>
 </div></div></div></div></div>
 </div> <!-- /content -->
